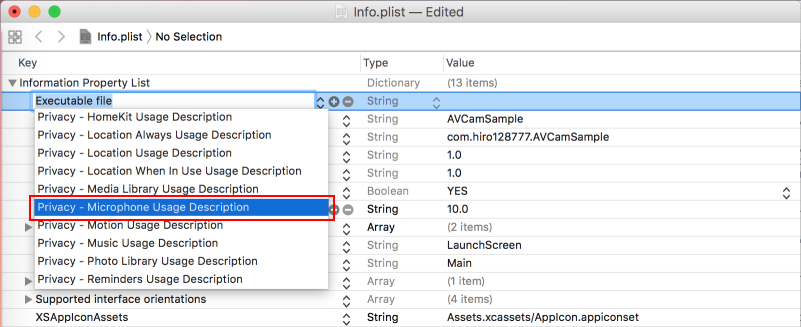
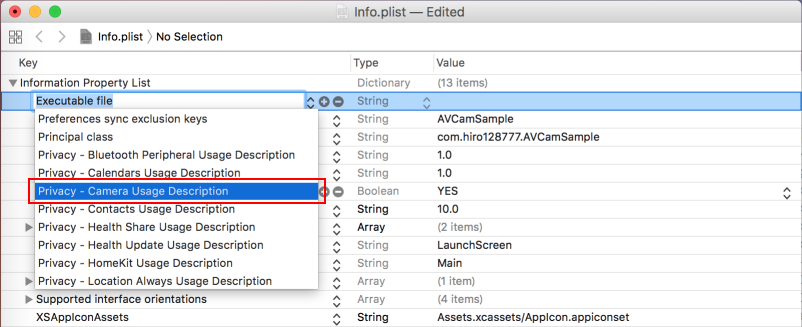
原稿・画像修正

diff --git a/readme.md b/readme.md
@@ -1894,8 +1894,33 @@ public override void ViewDidLoad()
 お疲れ様でした、これでコードは完成しました！それでは、実機で起動してみましょう。
 
 
-（必ず落ちるはず。info.plistの設定がないため）
+残念ながらアプリが強制終了してしまいましたね。
 
 
-以下執筆中
+# info.plist に使用目的を追加 #
+
+
+iOS10i以降で、カメラやフォトライブラリなどのユーザーデータへアクセスする場合、特定のキーと使用目的を Info.plist ファイルに記述する必要があります。
+
+記述しない場合、先ほどのようにアプリが強制終了します。
+
+では、早速<code>info.plist</code>に使用目的を追加しましょう。
+
+<code>info.plist</code>をXcodeで開いてください。
+
+<code>Camera Usage Description</code>を追加します。
+
+![](https://github.com/TomohiroSuzuki128/XamiOSHandsOn01/blob/master/images/007.png?raw=true)
+
+残りのキーも追加し、利用目的を入力してください。
+
+![](https://github.com/TomohiroSuzuki128/XamiOSHandsOn01/blob/master/images/008.png?raw=true)
+
+
+これで完了です。もう一度アプリをデバッグ実行してみましょう。今度は強制終了せず、起動できましたね。
+
+お疲れ様でした。これで本日のハンズオンは終了です。
+
+
+
 
